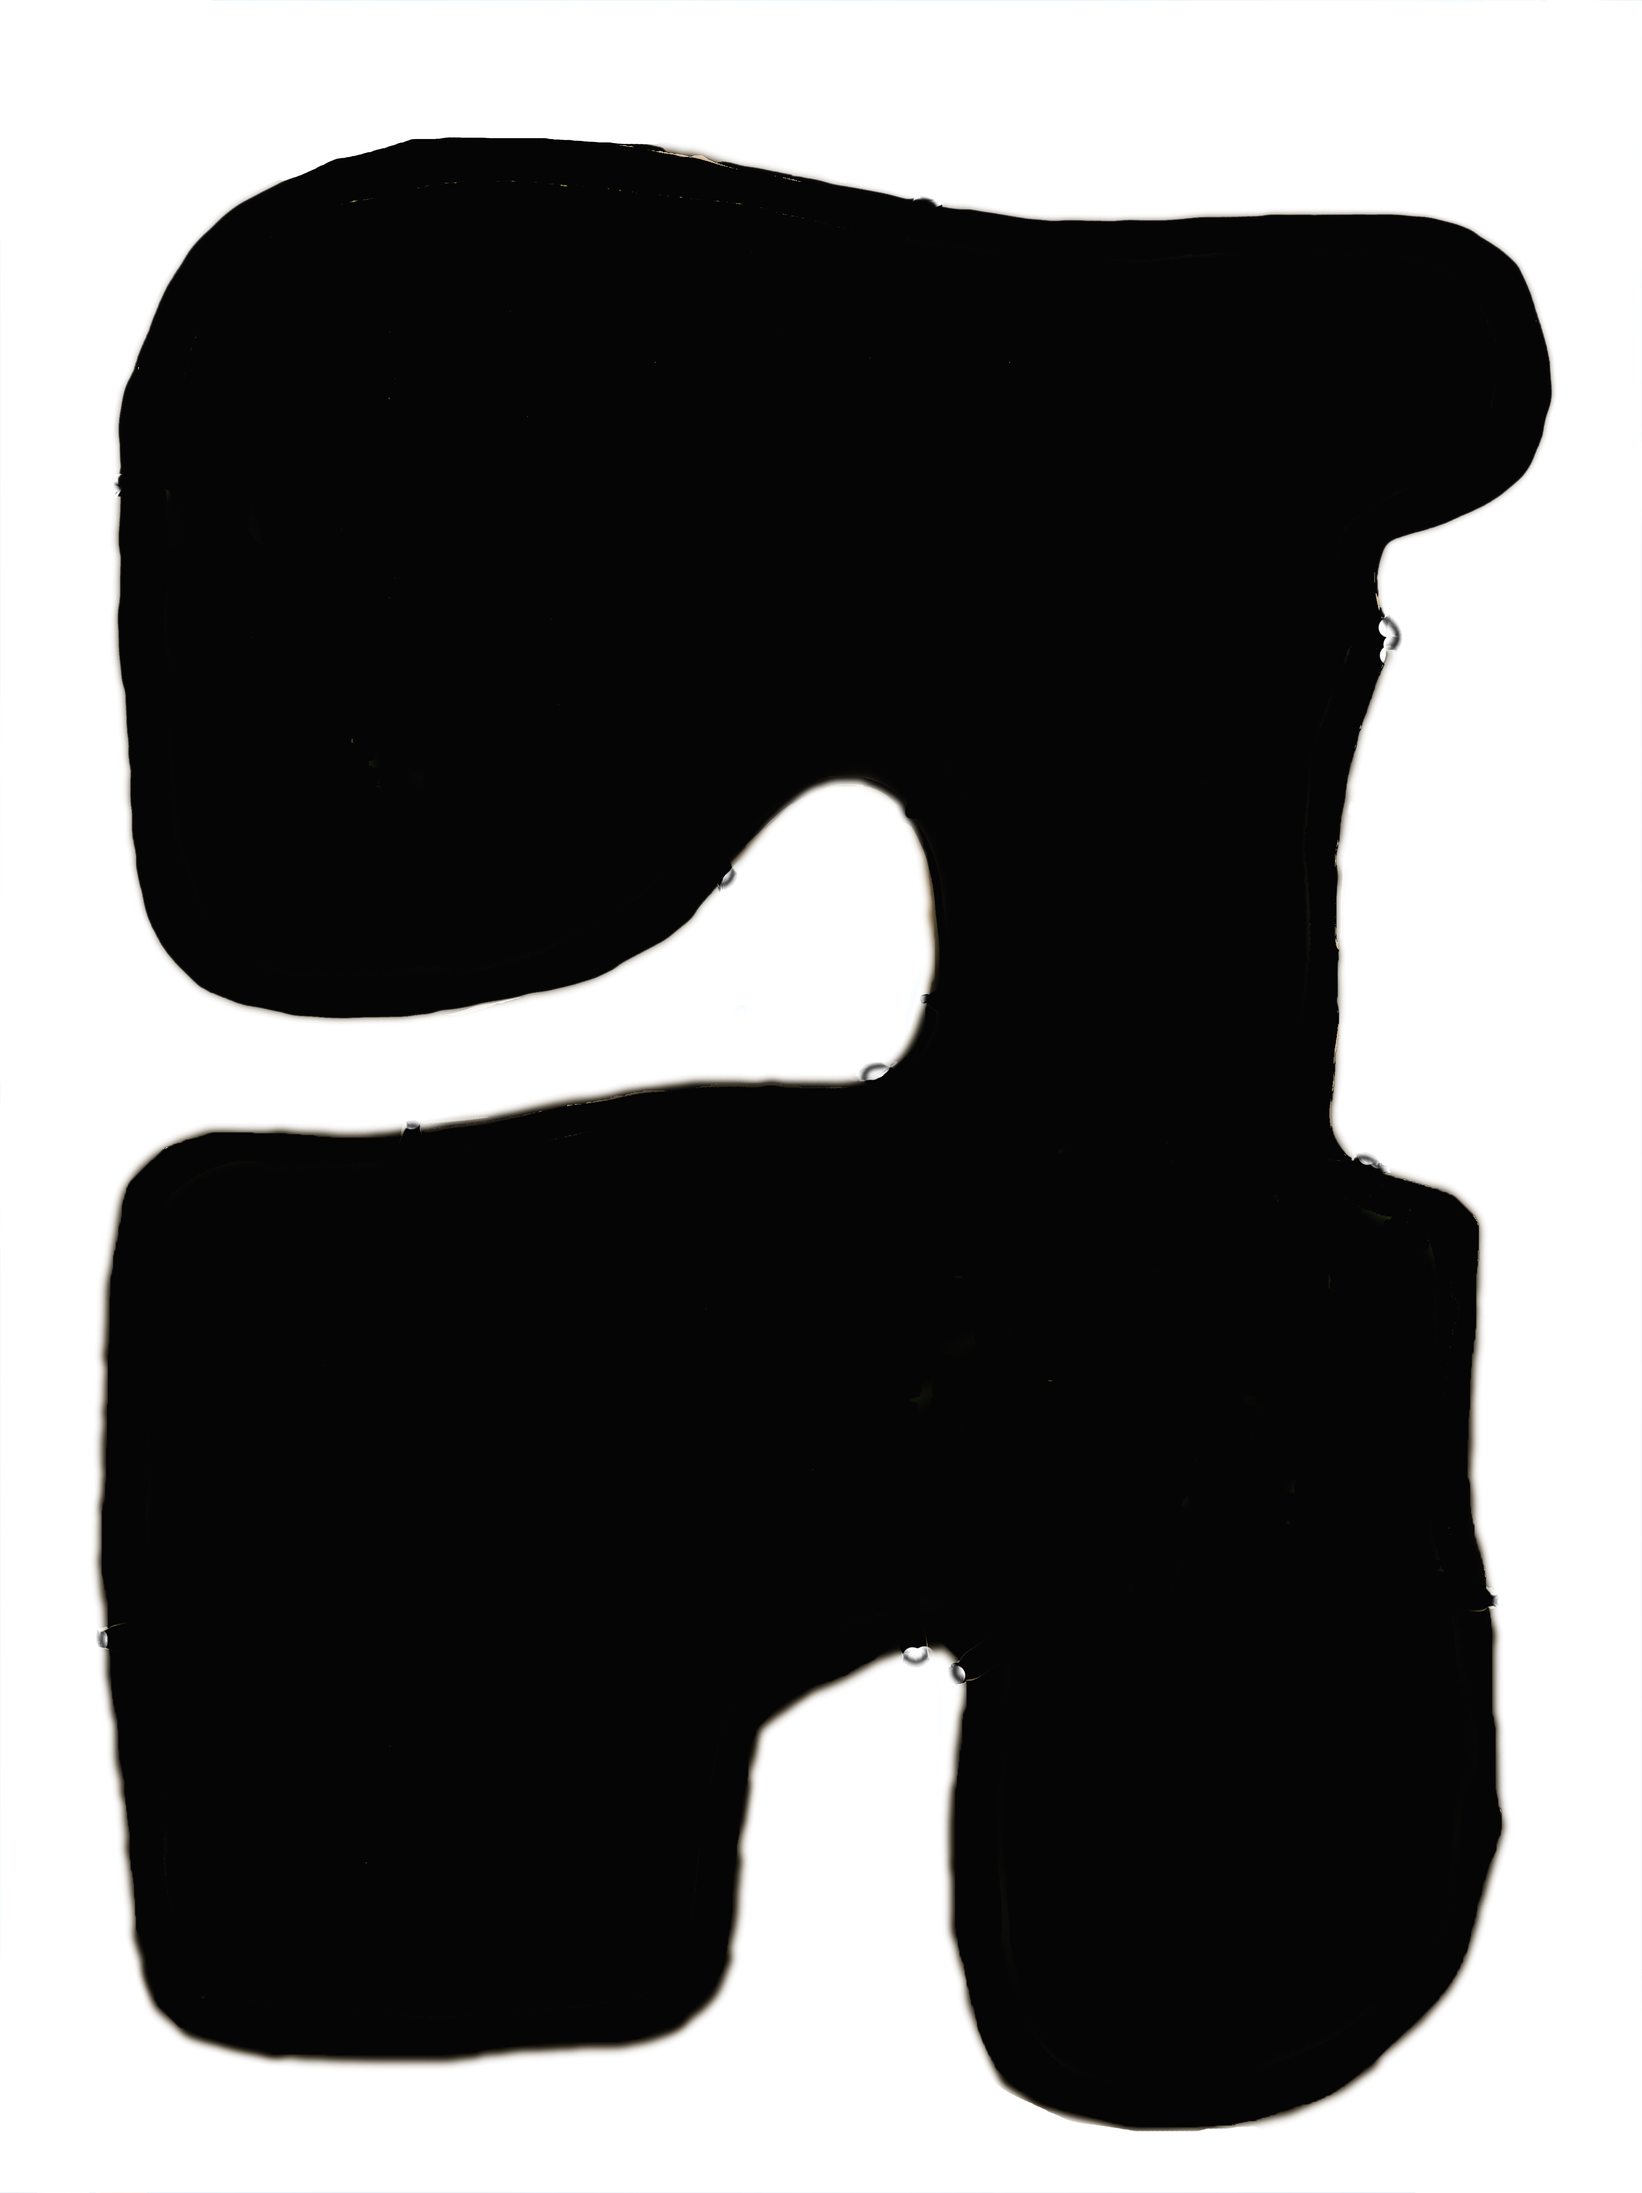
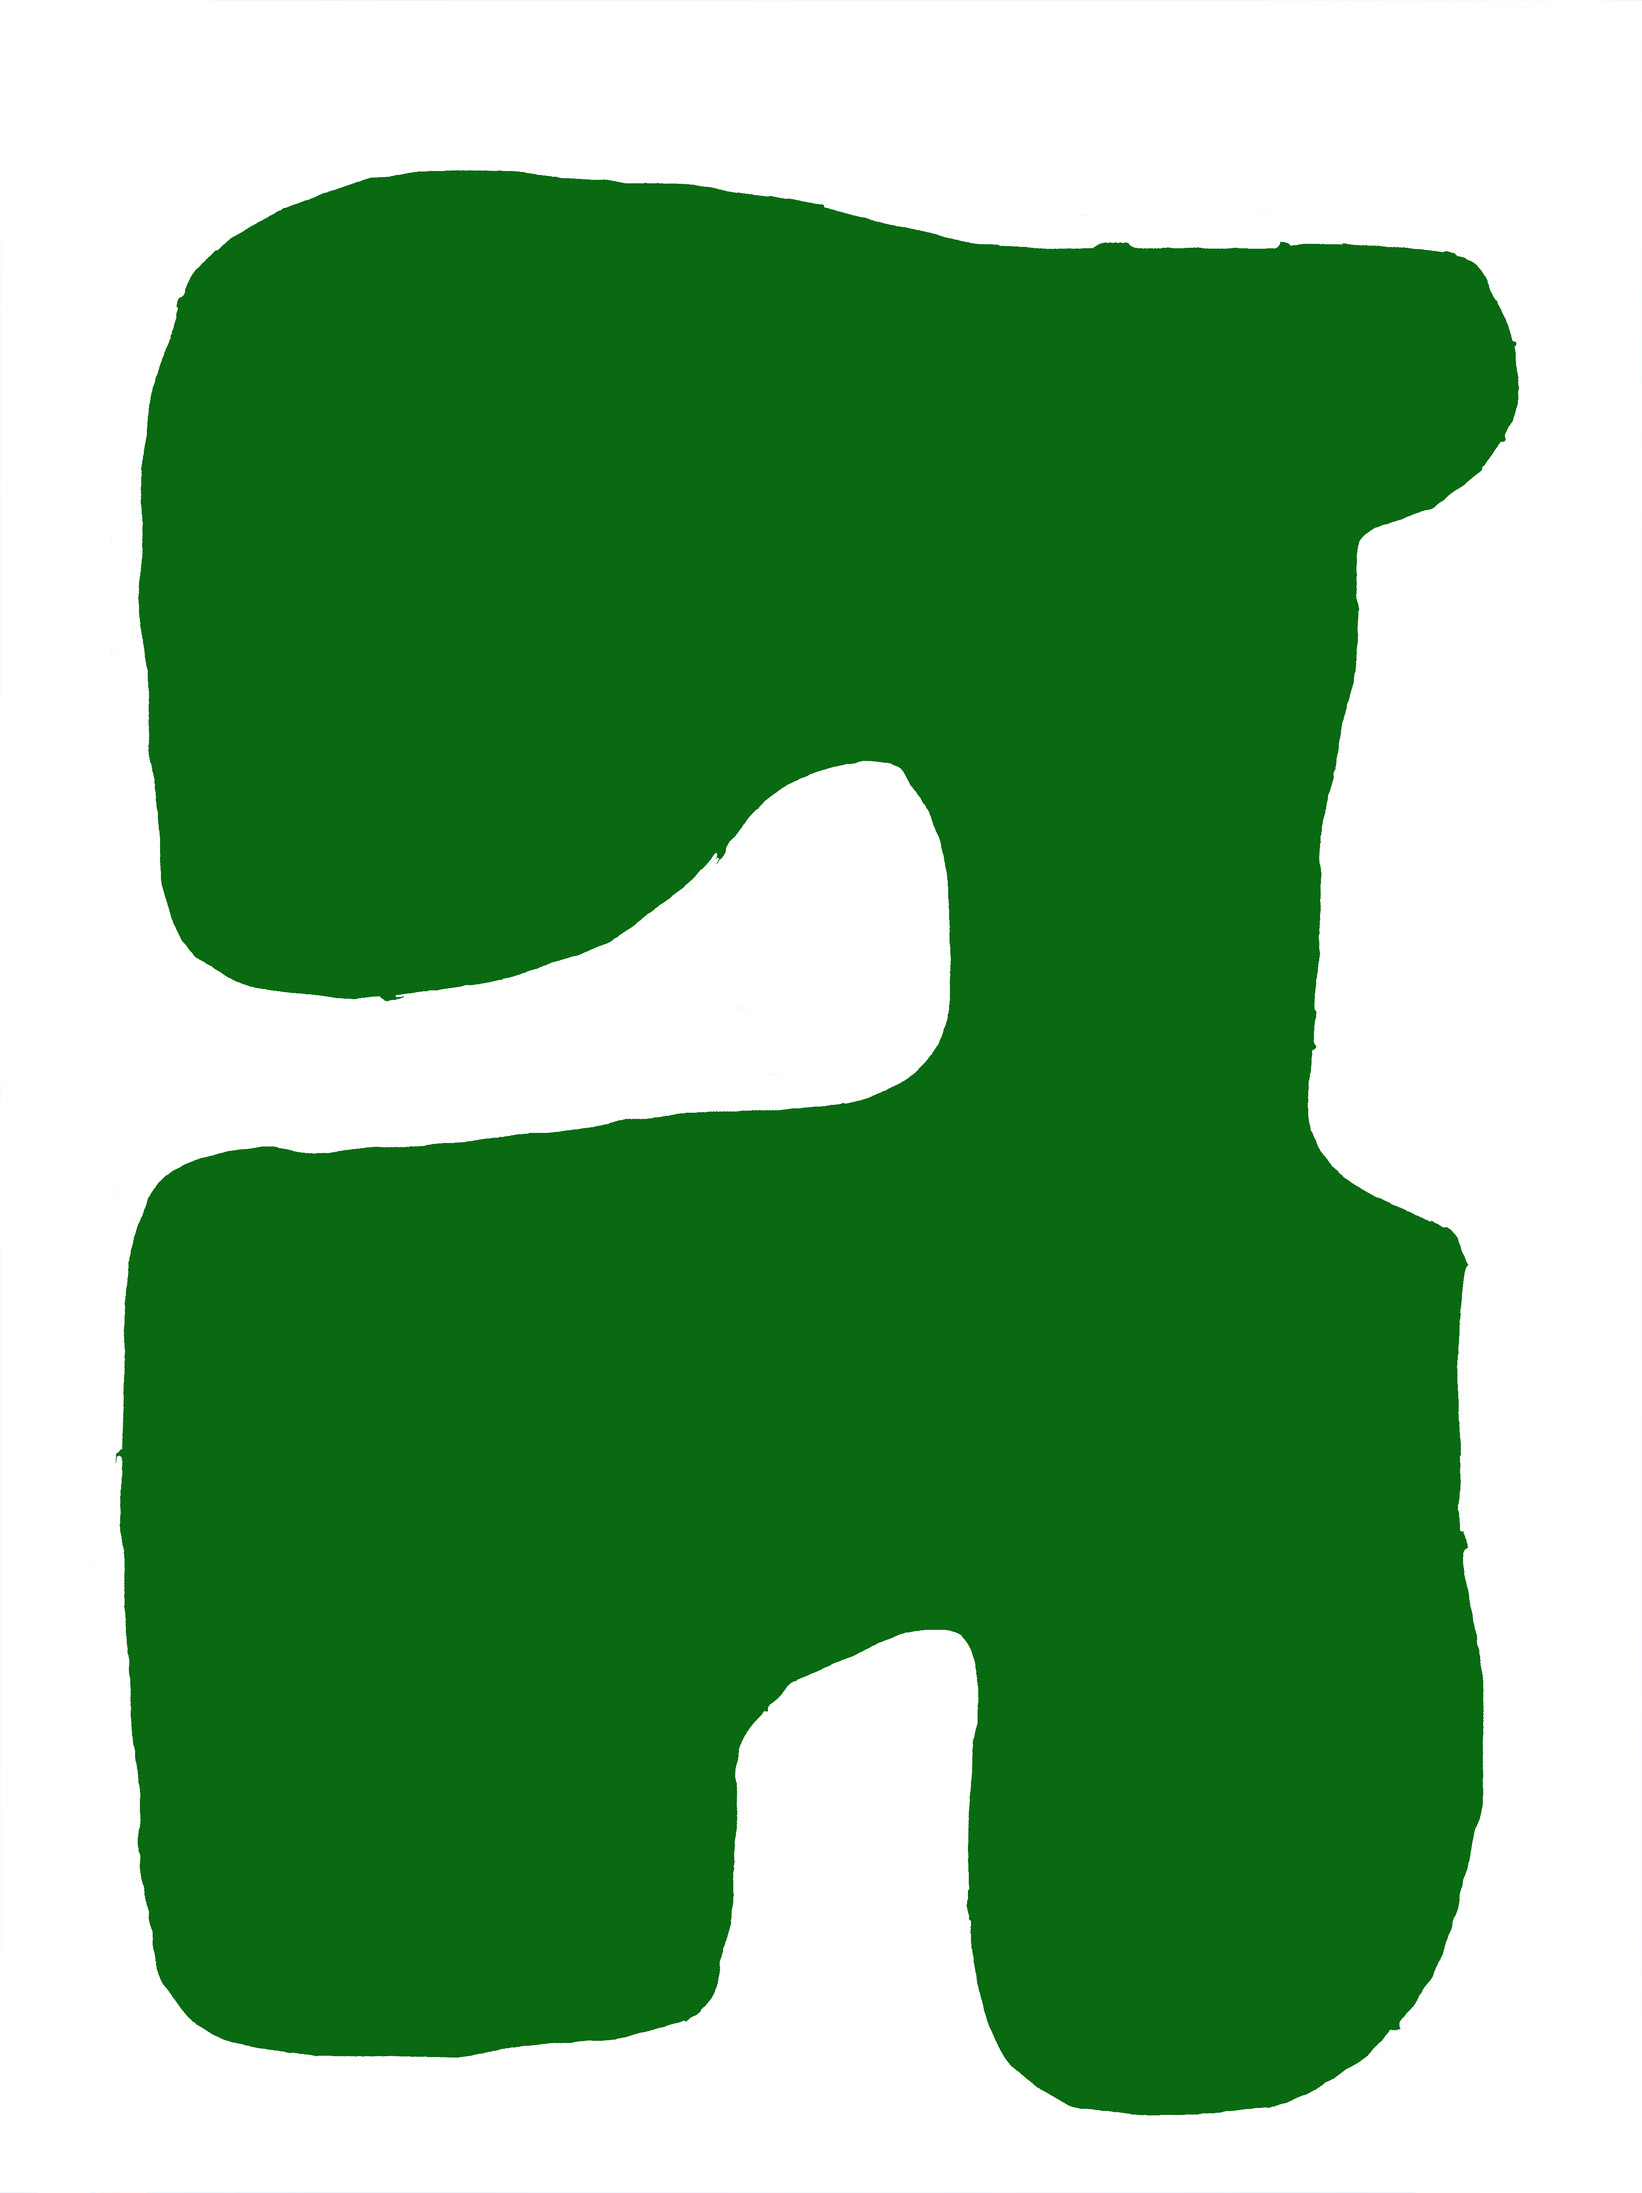
implementada las mask de los paises y la primera ciudad

diff --git a/world_image.py b/world_image.py
@@ -1,14 +1,15 @@
 import pygame
 from map_1_data import *
 from utiles import *
+from area_surface import *
 
 def world_tiles ():
 
-    tree1_img = ['mundo//tiles_world.png', 50, 50, 280, 280, 60, 70]
-    tree2_img = ['mundo//tiles_world.png', 30, 345, 250, 340, 40, 70]
-    tree3_img = ['mundo//tiles_world.png', 320, 50, 280, 280, 60, 60]
-    tree4_img = ['mundo//tiles_world.png', 320, 350, 260, 340, 40, 70]
-    tree5_img = ['mundo//tiles_world.png', 600, 65, 250, 330, 50, 60]
+    tree1_img = ['mundo//tiles_world.png', 50, 50, 280, 280, 70, 80]
+    tree2_img = ['mundo//tiles_world.png', 30, 345, 250, 340, 50, 80]
+    tree3_img = ['mundo//tiles_world.png', 320, 50, 280, 280, 70, 70]
+    tree4_img = ['mundo//tiles_world.png', 320, 350, 260, 340, 50, 80]
+    tree5_img = ['mundo//tiles_world.png', 600, 65, 250, 330, 60, 70]
 
     tiles = {
         "O": tree1_img,
@@ -30,3 +31,28 @@ def world_random(mask):
         all_forest
     ]
     return all_world
+
+def world_areas():
+    areas = {
+        "sea_map" : Area_surface('mundo//sea_map.png', 0, 0, 0, 0, 3730, 5000, WORLD_WIDTH, WORLD_HEIGHT, "sea"),
+        "land_map" : Area_surface('mundo//land_map.png', LAND_X, LAND_Y, 270, 390, 3195, 4433, LAND_WIDTH, LAND_HEIGHT, "land"),
+        "full_map" : Area_surface('mundo//full_map.png', 0, 0, 0, 0, 3730, 5000, WORLD_WIDTH, WORLD_HEIGHT, "map"),
+        "Andortia" : Area_surface('mundo//land_map_area.png', 354, 665, 185, 200, 1670, 1327, 4470, 5300, "Andortia"),
+        "Fenitha" : Area_surface('mundo//land_map_area.png', 3575, 1005, 2543, 125, 2357, 1855, 6305, 7410, "Fenitha"),
+        "Kryvenia" : Area_surface('mundo//land_map_area.png', 320, 4430, 210, 1850, 1646, 1330, 4400, 5310, "Kryvenia"),
+        "Lumaris" : Area_surface('mundo//land_map_area.png', 5170, 4920, 3570, 2120, 1405, 1372, 3765, 5480, "Lumaris"),
+        "Novrita" : Area_surface('mundo//land_map_area.png', 210, 9785, 360, 3575, 1356, 1325, 3640, 5300, "Novrita"),
+        "Ostravel" : Area_surface('mundo//land_map_area.png', 2870, 9195, 2175, 3765, 1200, 1810, 3210, 7220, "Ostravel"),
+        "Toranilis" : Area_surface('mundo//land_map_area.png', 5550, 10200, 4230, 4050, 1475, 1230, 3950, 4920, "Toranilis"),
+        "Valmorino" : Area_surface('mundo//land_map_area.png', 205, 14735, 390, 5570, 1790, 1165, 4800, 4660, "Valmorino"),
+        "Erantia" : Area_surface('mundo//land_map_area.png', 5400, 13950, 3980, 5410, 1570, 1490, 4205, 5955, "Erantia")
+    }
+    
+    return areas
+
+def world_cities():
+    areas = {
+        "main_city" : "",
+    }
+    
+    return areas

diff --git a/main.py b/main.py
@@ -3,6 +3,7 @@ from constants import *
 from world_image import *
 from utiles import *
 from mini_map import *
+from area_surface import *
 
 # pygame setup
 pygame.init()
@@ -12,28 +13,24 @@ clock = pygame.time.Clock()
 pygame.display.set_caption("War")
 
 background = pygame.Surface((WORLD_WIDTH, WORLD_HEIGHT))
-camera_x = 3750 
-camera_y = 17510
+camera_x = 6400 
+camera_y = 17800
 
-sea_map_img = imagen_interface('mundo//sea_map.png', 0, 0, 3730, 5000, WORLD_WIDTH, WORLD_HEIGHT)
-sea_map_mask = pygame.mask.from_surface(sea_map_img)
+areas = world_areas()
+background.blit(areas["full_map"].image, areas["full_map"].rect)
 
-land_map_img2 = imagen_interface('mundo//land_map2.png', 0, 0, 3730, 5000, WORLD_WIDTH, WORLD_HEIGHT)
-
-land_map_img = imagen_interface('mundo//land_map.png', 225, 300, 3315, 4560, LAND_WIDTH, LAND_HEIGHT)
-land_map_mask = pygame.mask.from_surface(land_map_img)
-
-
-background.blit(sea_map_img, (0, 0))
-background.blit(land_map_img, (380, 1150))
-background.blit(land_map_img2, (0, 0))
+cities = world_cities()
 
 tiles = world_tiles()
 
 for i in range (0, CANT_ZONE + 1):
         ALL_SPRITES.append([])
 
-all_world = world_random(sea_map_mask)
+city = Area_surface('mundo//tiles_world.png', 7000, 18000, 1220, 975, 827, 789, CITY_WIDTH, CITY_HEIGHT, "city")
+ALL_CITIES.append(city)
+background.blit(city.image, city.rect)
+
+all_world = world_random(areas["land_map"].mask)
 
 loading = True
 num_circles = len(all_world)
@@ -141,7 +138,7 @@ while running:
     pygame.draw.rect(screen, BLUE, minimap_icon_rect.inflate(-10, -10))  # ícono
 
     if (show_minimap):
-        draw_mini_map(screen, camera_x, camera_y, all_world)
+        draw_mini_map(screen, camera_x, camera_y, all_world, ALL_CITIES)
 
  	# Actualizar pantalla
     pygame.display.flip()

diff --git a/mini_map.py b/mini_map.py
@@ -4,10 +4,10 @@ from utiles import *
 
 
 # fondo del minimapa
-def draw_mini_map(screen, camera_x, camera_y, all_world):
+def draw_mini_map(screen, camera_x, camera_y, all_world, all_cities):
 
 	miniMap = pygame.Rect(MINIMAP_X, MINIMAP_Y, MINIMAP_X_SIZE, MINIMAP_Y_SIZE)
-	mini_world_img = imagen_interface('mundo//mini_world.jpg', 0, 0, 335, 450, MINIMAP_X_SIZE, MINIMAP_Y_SIZE)
+	mini_world_img = imagen_interface('mundo//mini_world.jpg', 0, 0, 506, 675, MINIMAP_X_SIZE, MINIMAP_Y_SIZE)
 	
 	screen.blit(mini_world_img, (MINIMAP_X, MINIMAP_Y))
 	pygame.draw.rect(screen, (250, 0, 0), miniMap, 1)
@@ -39,13 +39,18 @@ def draw_mini_map(screen, camera_x, camera_y, all_world):
 		    			t = 5
 		    		else:
 		    			t = 0
-		    		pygame.draw.circle(screen, (0, 255, 0), (SCREEN_WIDTH - MINIMAP_X_SIZE + mx + x * 5, 
-		    	SCREEN_HEIGHT - MINIMAP_Y_SIZE + my + t), 2)
+		    		pygame.draw.circle(screen, (0, 255, 0), (MINIMAP_X + mx + x * 5, MINIMAP_Y + my + t), 1)
 		    elif (matriz[3] == "tree") :
-		    	pygame.draw.circle(screen, (0, 255, 0), (SCREEN_WIDTH - MINIMAP_X_SIZE + mx, 
-		    	SCREEN_HEIGHT - MINIMAP_Y_SIZE + my), 2)
+		    	pygame.draw.circle(screen, (0, 255, 0), (MINIMAP_X + mx, MINIMAP_Y + my), 1)
 
 	pygame.draw.rect(screen, (255, 0, 0), cam_rect, 2)  # borde rojo
+
+	for city in all_cities:
+		x, y = city.rect.topleft
+		mx = int(x * SCALE_X)
+		my = int(y * SCALE_Y)
+		city_rect = pygame.Rect(MINIMAP_X + mx, MINIMAP_Y + my, 8, 7)
+		pygame.draw.rect(screen, ("#df9850"), city_rect)
 
 """
 	Convierte coordenadas del minimapa -> mundo

diff --git a/utiles.py b/utiles.py
@@ -27,8 +27,8 @@ base_path = os.path.dirname(__file__)
 def imagen_interface(route, x, y, rw, rh, w, h):
 	image_path = os.path.join(base_path,'assets//img//', route)
 	image_load = pygame.image.load(image_path).convert_alpha()
-	rect = pygame.Rect(x, y, rw, rh)
-	image = image_load.subsurface(rect)
+	frame_rect = pygame.Rect(x, y, rw, rh)
+	image = image_load.subsurface(frame_rect)
 	image = pygame.transform.scale(image, (w, h))
 	return image
 
@@ -96,10 +96,11 @@ def draw_matriz(background, tiles, map_data, x, y, name):
 """
 def generate_positions(cant, mask):
 	positions = []
+
 	for _ in range(cant):
-		x = random.randint(500, LAND_WIDTH - 500)
-		y = random.randint(500, LAND_HEIGHT - 500)
-		if (mask.get_at((x, y)) == 0):
+		x = random.randint(LAND_X + 200, LAND_WIDTH - 100)
+		y = random.randint(LAND_Y + 200, LAND_HEIGHT - 100)
+		if (mask.get_at((x - LAND_X, y - LAND_Y)) == 1):
 			positions.append((x, y))
 	return positions
 
@@ -150,5 +151,5 @@ def check_masks_collision(self, other_sprite):
         return self.mask.overlap(other_sprite.mask, offset) is not None
 
 def check_mask_area(area, point):
-	print(area.get_at(point) == 1)
+	#print(area.get_at(point) == 1)
 	return area.get_at(point) == 1

diff --git a/constants.py b/constants.py
@@ -1,12 +1,12 @@
 import math
 
 #sizes
-SCREEN_WIDTH, SCREEN_HEIGHT = 1500, 775
-WORLD_WIDTH, WORLD_HEIGHT = 6000, 20000
+SCREEN_WIDTH, SCREEN_HEIGHT = 1530, 775
+WORLD_WIDTH, WORLD_HEIGHT = 10000, 20000
 
 TILE_SIZE = 150
 
-MINIMAP_X_SIZE = 240
+MINIMAP_X_SIZE = 200
 MINIMAP_Y_SIZE = 400
 
 MINIMAP_X = SCREEN_WIDTH - MINIMAP_X_SIZE - 3
@@ -15,17 +15,21 @@ MINIMAP_Y = SCREEN_HEIGHT - MINIMAP_Y_SIZE - 38
 SCALE_X = MINIMAP_X_SIZE / WORLD_WIDTH
 SCALE_Y = MINIMAP_Y_SIZE / WORLD_HEIGHT
 
-ZONE = math.gcd(WORLD_WIDTH, WORLD_HEIGHT)
+ZONE = math.gcd(WORLD_WIDTH, WORLD_HEIGHT) // 5
 CANT_ZONE = int((WORLD_WIDTH / ZONE) * (WORLD_HEIGHT / ZONE))
 
-LAND_X, LAND_Y = 300, 250
-LAND_WIDTH, LAND_HEIGHT = WORLD_WIDTH - 700, WORLD_HEIGHT - 1550
+LAND_X, LAND_Y = 735, 1580
+LAND_WIDTH, LAND_HEIGHT = WORLD_WIDTH - 1450, WORLD_HEIGHT - 2300
 
 ALL_SPRITES = []
+
+ALL_CITIES = []
 
 MENU_HEIGHT = 32
 ICON_SIZE = 20
 ICONS_Y = SCREEN_HEIGHT - MENU_HEIGHT // 2 - ICON_SIZE // 2
+
+CITY_WIDTH, CITY_HEIGHT = 400, 400
 
 #colors
 WHITE = (255,255,255)

diff --git a/map_1_data.py b/map_1_data.py
@@ -30,14 +30,14 @@ oaks_forest4 = [
 ]
 
 all_forest = [
-    [oaks_forest, 3700, 2700, "trees"],
-    [oaks_forest4, 2700, 2500, "trees"],
+    [oaks_forest, 2700, 2500, "trees"],
+    [oaks_forest4, 7700, 3500, "trees"],
     [oaks_forest, 1500, 4000, "trees"],
     [oaks_forest4, 1200, 6000, "trees"],
-    [oaks_forest3, 1000, 7500, "trees"],
+    [oaks_forest3, 6000, 7500, "trees"],
     [oaks_forest, 1000, 11000, "trees"],
-    [oaks_forest, 1500, 13000, "trees"],
+    [oaks_forest,6500, 13000, "trees"],
     [oaks_forest2, 2900, 13500, "trees"],
-    [oaks_forest, 1500, 16000, "trees"],
+    [oaks_forest, 6500, 16000, "trees"],
     [oaks_forest3, 1300, 17000, "trees"],
 ]

diff --git a/sprite.py b/sprite.py
@@ -1,5 +1,6 @@
 import pygame
 import os
+from utiles import *
 
 
 base_path = os.path.dirname(__file__)
@@ -9,8 +10,8 @@ class Sprite_game(pygame.sprite.Sprite):
         super().__init__()
         self.image = self.imagen_interface(path, imgx, imgy, endx, endy, w, h)
         self.mask = pygame.mask.from_surface(self.image)
-        self.x = x
-        self.y = y
+        self.rect = self.image.get_rect()
+        self.rect.topleft = (x, y)
         self.zone = z
         self.name = name
         self.w = w

diff --git a/area_surface.py b/area_surface.py
@@ -1,0 +1,13 @@
+import pygame
+import os
+from utiles import *
+
+base_path = os.path.dirname(__file__)
+
+class Area_surface():
+    def __init__(self, path, x, y, imgx, imgy, endx, endy, w, h, name):
+        self.image = imagen_interface(path, imgx, imgy, endx, endy, w, h)
+        self.mask = pygame.mask.from_surface(self.image)
+        self.rect = self.image.get_rect()
+        self.rect.topleft = (x, y)
+        self.name = name
